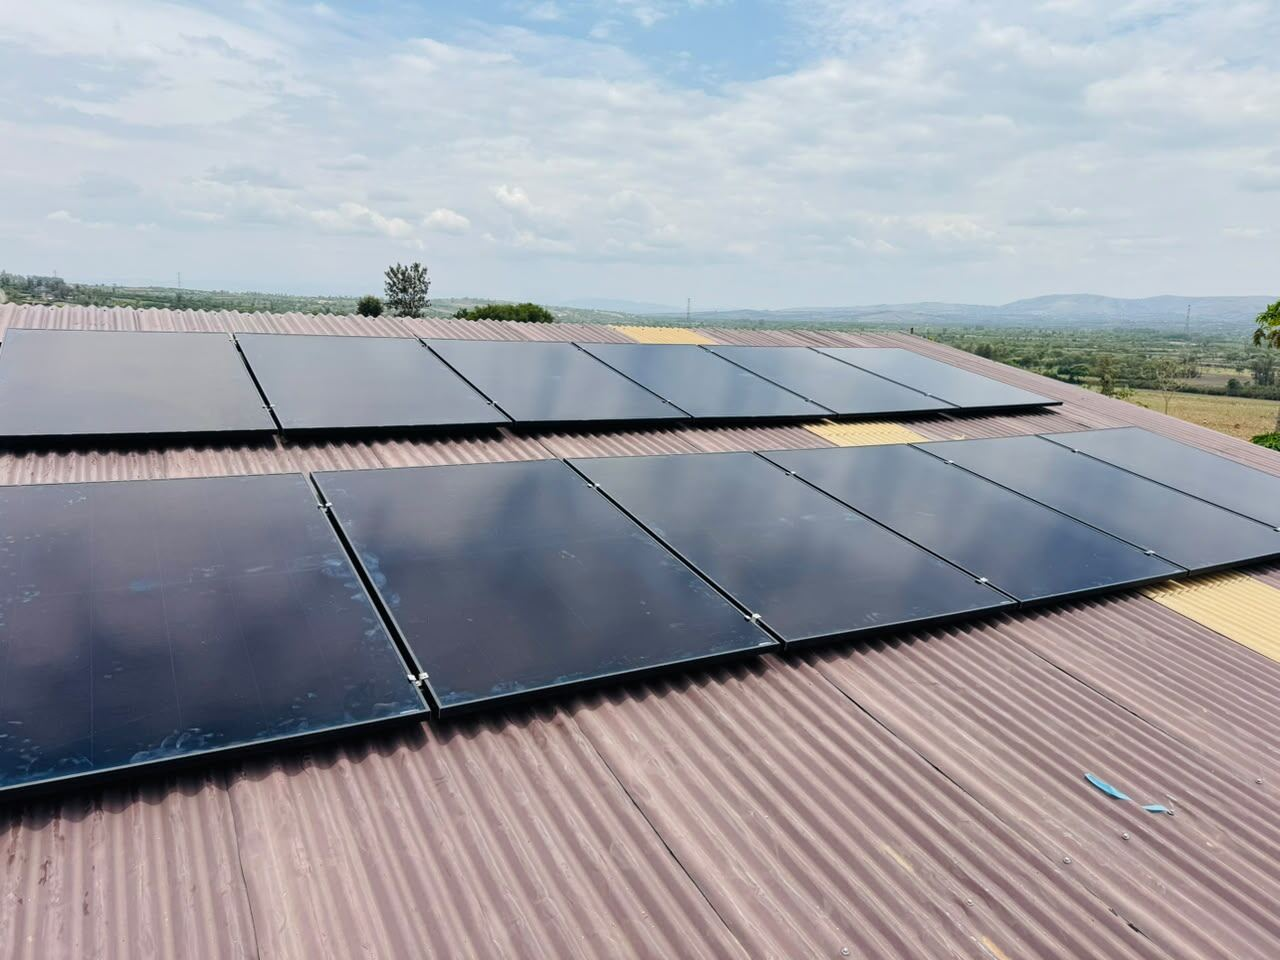
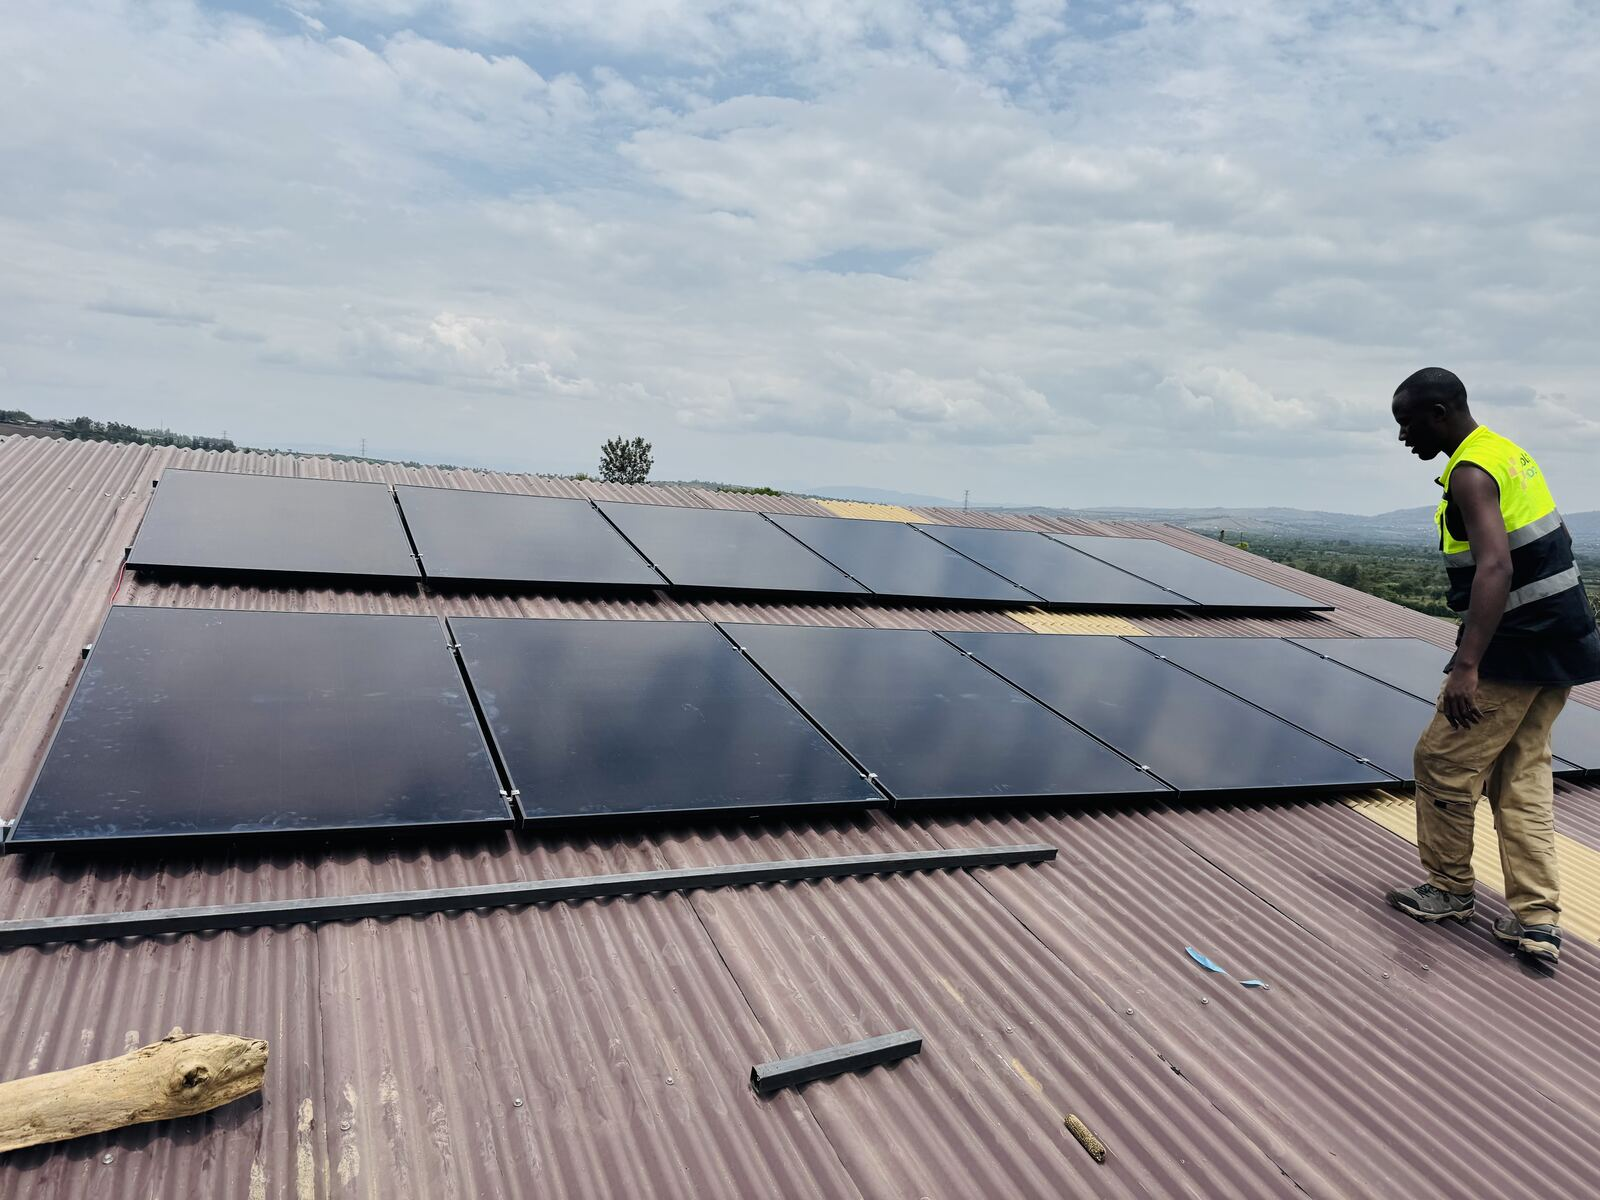
Use full-resolution Nyagatare photos from Google Drive
Replace WhatsApp-compressed rooftop photos with the originals (1600px,
metadata stripped) and add a wide roof shot and an inverter-wiring shot
to the home gallery. Alt text names the location generically (a family
home in Nyagatare); photos showing the client house or interior excluded.

diff --git a/app/components/gallery/gallerySection.tsx b/app/components/gallery/gallerySection.tsx
@@ -9,16 +9,20 @@ import crewValley from "@/public/images/projects/roof-crew-valley-view.jpg";
 import finishedRows from "@/public/images/projects/roof-finished-rows.jpg";
 import withFinishedInstall from "@/public/images/projects/technician-with-finished-install.jpg";
 import wallInstall from "@/public/images/projects/wall-install-inverter-battery.jpg";
+import crewWide from "@/public/images/projects/roof-crew-wide.jpg";
+import wiringInverter from "@/public/images/projects/technician-wiring-inverter.jpg";
 
-// SolarHope's own installation photos.
+// SolarHope's own installation photos (rooftop set: a family home in Nyagatare).
 const images = [
-  { src: crewFitting, alt: "SolarHope technicians fitting solar panels on a roof, with hills behind" },
+  { src: crewFitting, alt: "SolarHope technicians fitting solar panels on a family home in Nyagatare, with hills behind" },
   { src: withFinishedInstall, alt: "SolarHope technician beside a finished inverter and battery installation" },
+  { src: crewWide, alt: "SolarHope crew laying out solar panels on a roof in Nyagatare" },
   { src: crewCloseUp, alt: "SolarHope crew securing a row of solar panels on a roof" },
-  { src: crewValley, alt: "SolarHope crew on a roof installation overlooking a valley" },
+  { src: wiringInverter, alt: "SolarHope technician wiring a hybrid inverter above its battery" },
+  { src: crewValley, alt: "SolarHope crew on a rooftop installation in Nyagatare overlooking the valley" },
   { src: crewMidInstall, alt: "SolarHope technicians fixing panels into place during an installation" },
   { src: wallInstall, alt: "A wall-mounted hybrid inverter above its lithium battery, installed by SolarHope" },
-  { src: finishedRows, alt: "Rows of newly installed solar panels on a corrugated roof" },
+  { src: finishedRows, alt: "Rows of newly installed solar panels on a corrugated roof in Nyagatare" },
 ];
 
 const AutoImageSlider = () => {
